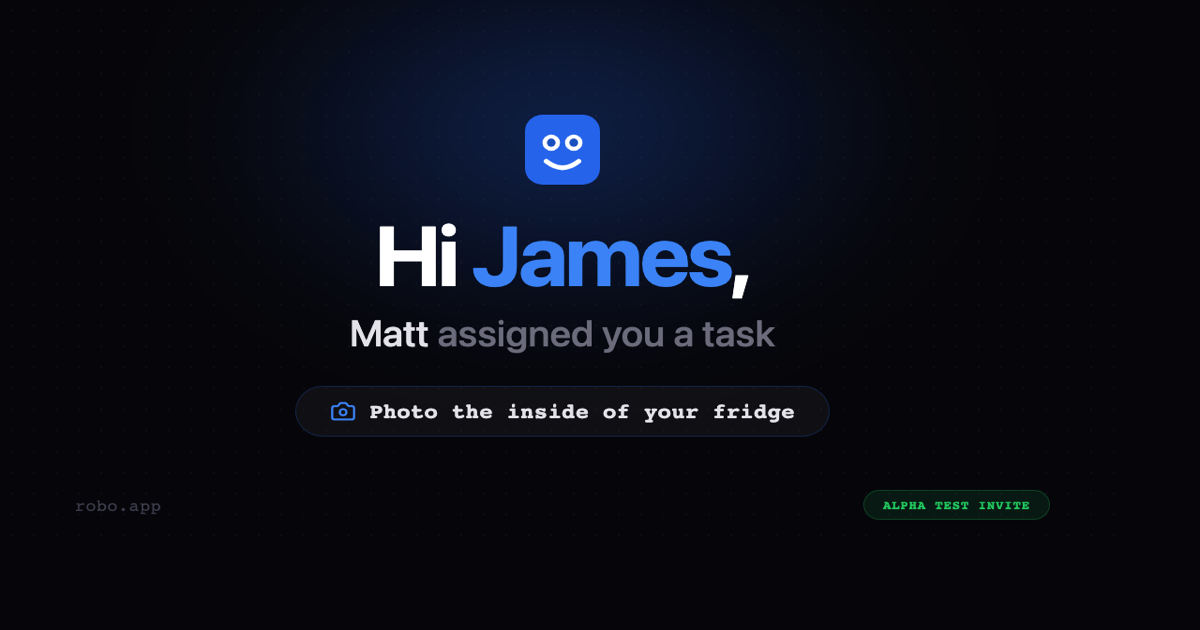
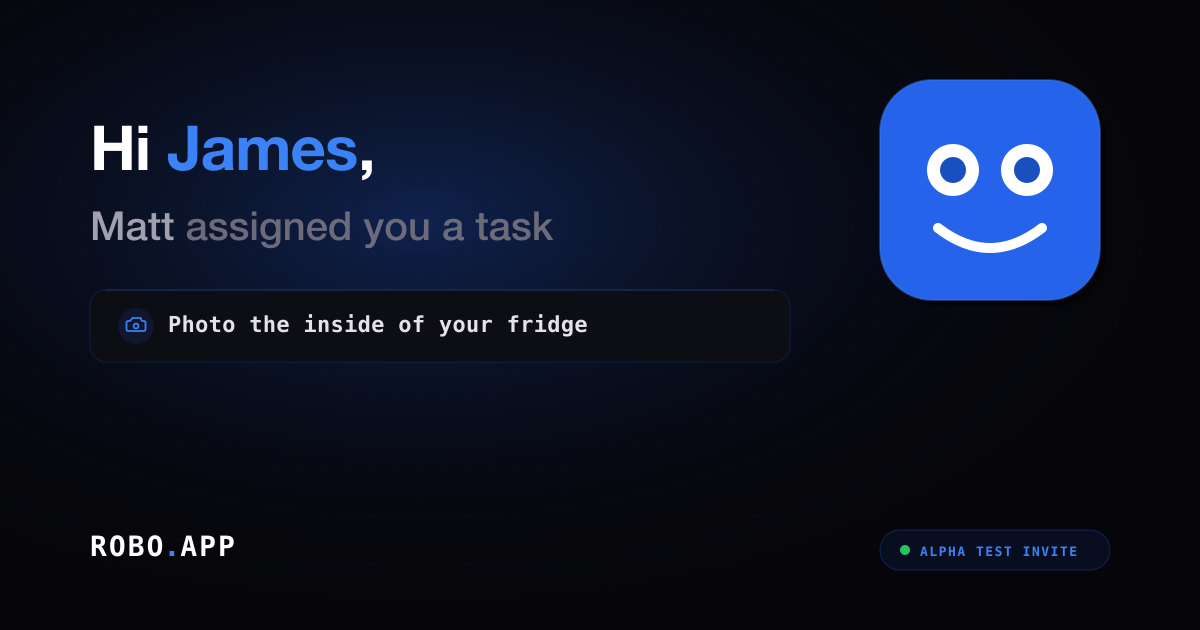
feat: OG image text safety system — two-tier responsive rendering (#104)
Add single source of truth for OG image text constraints (og-limits.ts)
with DB limits, visual tier breakpoints, and safety truncation helpers.
Harden Zod schemas with .max() on previously unbounded fields. Redesign
HIT preview SVG with personalized two-tier layout.

diff --git a/workers/src/og-limits.ts b/workers/src/og-limits.ts
@@ -1,0 +1,38 @@
+// OG Image Text Safety — single source of truth
+// DB limits: generous, for storage
+// Visual tiers: the image renderer picks tier based on actual text length
+
+export const OG_DB = {
+  recipientName: 100,
+  senderName: 100,
+  taskDescription: 500,
+  agentName: 100,
+} as const;
+
+// Visual tier breakpoints (chars where we switch font sizes)
+export const OG_TIERS = {
+  recipientName: { ideal: 16, max: 30 }, // <=16: 62px font, 17-30: 44px font, >30: truncate at 30
+  senderName: { ideal: 16, max: 30 }, // <=16: 40px font, 17-30: 30px font, >30: truncate at 30
+  taskDescription: { ideal: 45, max: 80 }, // <=45: 1 line 24px, 46-80: 2 lines 20px, >80: truncate at 80
+  agentName: { ideal: 25, max: 40 }, // <=25: 16px, 26-40: 13px, >40: truncate at 40
+} as const;
+
+export const OG_SIZE = { width: 1200, height: 630 } as const;
+
+// Safety truncation — always applied before rendering
+export function ogSafe(
+  text: string,
+  field: keyof typeof OG_TIERS
+): string {
+  const { max } = OG_TIERS[field];
+  if (text.length <= max) return text;
+  return text.slice(0, max - 1) + '\u2026';
+}
+
+// Tier selection — returns 'ideal' or 'compact'
+export function ogTier(
+  text: string,
+  field: keyof typeof OG_TIERS
+): 'ideal' | 'compact' {
+  return text.length <= OG_TIERS[field].ideal ? 'ideal' : 'compact';
+}

diff --git a/workers/src/types.ts b/workers/src/types.ts
@@ -47,11 +47,11 @@ export const PushCardSchema = z.object({
   device_id: z.string().uuid(),
   card_type: z.enum(['decision', 'task', 'info']),
   title: z.string().min(1).max(200),
-  body: z.string().optional(),
+  body: z.string().max(500).optional(),
 });
 
 export const RespondCardSchema = z.object({
-  response: z.string().min(1),
+  response: z.string().min(1).max(2000),
 });
 
 export const AnalyzeRequestSchema = z.object({

diff --git a/docs/solutions/ui-bugs/og-preview-text-overflow-two-tier-rendering-20260212.md b/docs/solutions/ui-bugs/og-preview-text-overflow-two-tier-rendering-20260212.md
@@ -1,0 +1,143 @@
+---
+title: OG Image Text Overflow Prevention — Two-Tier Responsive Rendering
+date: 2026-02-12
+category: ui-bugs
+tags: [og-images, text-truncation, zod-validation, responsive-design, dynamic-content, svg]
+component: workers/src/og-limits.ts, workers/src/types.ts, site/demo/hit/
+severity: high
+---
+
+# OG Image Text Overflow Prevention — Two-Tier Responsive Rendering
+
+## Problem
+
+Dynamic text fields (`recipient_name`, `sender_name`, `task_description`, `agent_name`) injected into OG preview images could overflow and break the 1200x630 layout. The HIT system was transitioning to dynamic content with no validation or responsive rendering for variable-length text.
+
+Additionally, existing Zod schemas had unbounded string fields (`PushCardSchema.body`, `RespondCardSchema.response`) that could accept arbitrarily long input.
+
+**Symptoms:** Long names or descriptions would overflow the robot icon safe zone, wrap unpredictably, or extend beyond image boundaries in social previews (iMessage, Slack, Twitter).
+
+## Root Cause
+
+Three compounding issues:
+
+1. **No text length validation** — Zod schemas allowed unlimited text through to the renderer
+2. **No responsive font sizing** — Fixed font sizes (62px, 40px) regardless of text length
+3. **No truncation safety net** — No graceful fallback for text exceeding visual limits
+
+## Solution
+
+Created a two-tier responsive OG image rendering system with a single source of truth for all text constraints.
+
+### 1. Constants file — `workers/src/og-limits.ts`
+
+Separates DB storage limits (generous) from visual rendering limits (strict):
+
+```typescript
+// DB limits: generous, for storage
+export const OG_DB = {
+  recipientName: 100,
+  senderName: 100,
+  taskDescription: 500,
+  agentName: 100,
+} as const;
+
+// Visual tier breakpoints (chars where we switch font sizes)
+export const OG_TIERS = {
+  recipientName:   { ideal: 16, max: 30 },   // <=16: 62px, 17-30: 44px, >30: truncate
+  senderName:      { ideal: 16, max: 30 },   // <=16: 40px, 17-30: 30px, >30: truncate
+  taskDescription: { ideal: 45, max: 80 },   // <=45: 1-line 24px, 46-80: 2-line 20px, >80: truncate
+  agentName:       { ideal: 25, max: 40 },   // <=25: 16px, 26-40: 13px, >40: truncate
+} as const;
+
+// Safety truncation — always applied before rendering
+export function ogSafe(text: string, field: keyof typeof OG_TIERS): string {
+  const { max } = OG_TIERS[field];
+  if (text.length <= max) return text;
+  return text.slice(0, max - 1) + '\u2026';
+}
+
+// Tier selection — returns 'ideal' or 'compact'
+export function ogTier(text: string, field: keyof typeof OG_TIERS): 'ideal' | 'compact' {
+  return text.length <= OG_TIERS[field].ideal ? 'ideal' : 'compact';
+}
+```
+
+### 2. Schema hardening — `workers/src/types.ts`
+
+Added `.max()` constraints to previously unbounded fields:
+
+```typescript
+body: z.string().max(500).optional(),     // was: z.string().optional()
+response: z.string().min(1).max(2000),    // was: z.string().min(1)
+```
+
+### 3. Two-tier SVG template — `site/demo/hit/og-hit-preview.svg`
+
+- **Tier 1 "Ideal"**: Big bold text for short names (<=16 chars) — 62px greeting, 40px subtitle
+- **Tier 2 "Compact"**: Smaller text for longer names (17-30 chars) — 44px greeting, 30px subtitle
+
+**Safe zones** (1200x630):
+- Text block: x=90, max-width=680px
+- Robot icon: fixed at x=880, 220x220 — never moves
+- Task pill: x=90, max-width=700px
+- Bottom bar: ROBO.APP left, ALPHA TEST INVITE right
+
+### Usage pattern
+
+```typescript
+import { ogSafe, ogTier } from '../og-limits';
+
+const name = ogSafe(hit.recipient_name, 'recipientName');
+const tier = ogTier(hit.recipient_name, 'recipientName');
+// tier === 'ideal'   → 62px font
+// tier === 'compact' → 44px font
+```
+
+## Verification
+
+```
+ogSafe("A very long recipient name that exceeds the max", 'recipientName')
+→ "A very long recipient name th…"
+
+ogTier("James", 'recipientName') → 'ideal'
+ogTier("Christopher Longname", 'recipientName') → 'compact'
+```
+
+Typecheck passes: `npm run typecheck` clean. PNG renders correctly at 1200x630 (95KB).
+
+## Key Design Pattern: Separation of Concerns
+
+| Layer | Responsibility | Limits |
+|-------|---------------|--------|
+| **Storage** (DB) | Store full-length data | 100-500 chars (generous) |
+| **Validation** (Zod) | Enforce API contract | `.max()` on all string fields |
+| **Rendering** (SVG) | Visual safety | `ogSafe()` + `ogTier()` per field |
+
+Each layer can evolve independently. DB limits can grow without affecting rendering. Visual breakpoints can tighten without changing the API contract.
+
+## Prevention Strategies
+
+1. **Always add `.max()` to Zod string schemas** — unbounded text is a risk for both rendering and DoS
+2. **Define visual breakpoints for any dynamic text in images** — font sizes must adapt to content length
+3. **Use a single constants file** — import limits in schemas, renderers, and tests from one place
+4. **Test at boundary lengths** — exercise ideal/compact/truncation thresholds
+
+## Files Changed
+
+| File | Action |
+|------|--------|
+| `workers/src/og-limits.ts` | Created — DB limits, visual tiers, `ogSafe()`, `ogTier()` |
+| `workers/src/types.ts` | Modified — `.max(500)` on body, `.max(2000)` on response |
+| `site/demo/hit/og-hit-preview.svg` | Created — two-tier SVG template |
+| `site/demo/hit/og-hit-preview.png` | Regenerated — from SVG via `rsvg-convert` |
+
+## Related
+
+- [HIT link personalized OG preview plan](../../plans/2026-02-12-feat-hit-link-personalized-og-preview-plan.md)
+- [Functional HIT system CRAWL/WALK/RUN plan](../../plans/2026-02-12-feat-functional-hit-system-web-capture-chat-plan.md)
+- [Hono Zod validation pattern for Workers](../build-errors/hono-zod-cloudflare-workers-validation-20260210.md)
+- [Multi-service deployment checklist](../integration-issues/cloudflare-multi-service-deployment-hit-system-20260212.md)
+- PR #100: Functional HIT system
+- PR #97: HIT link POC
+- Issue #103: HIT system pre-demo hardening
